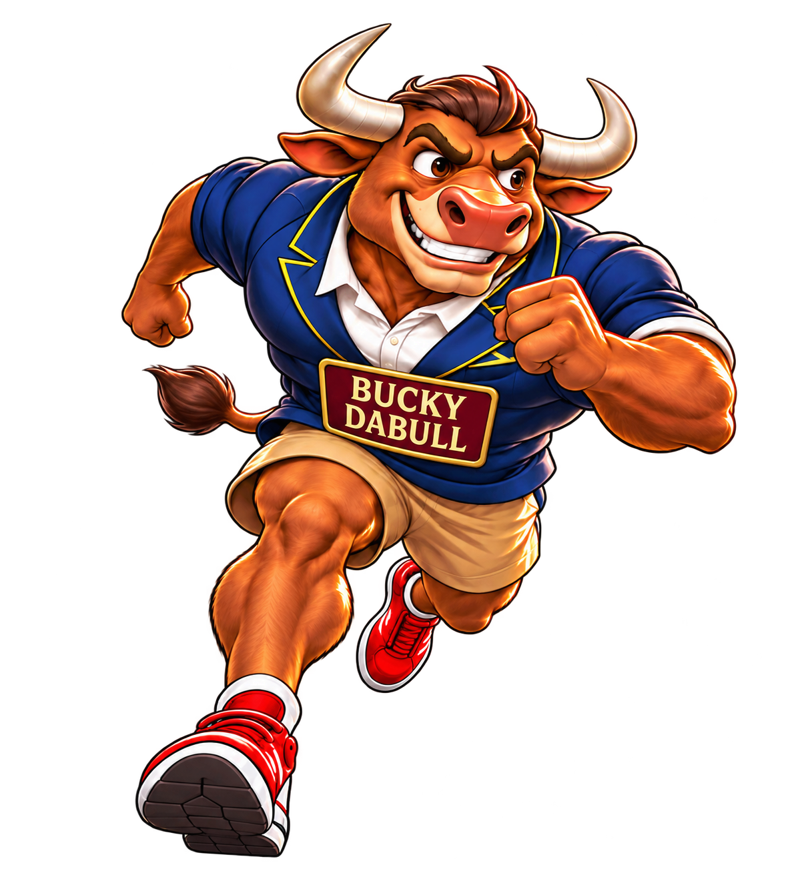
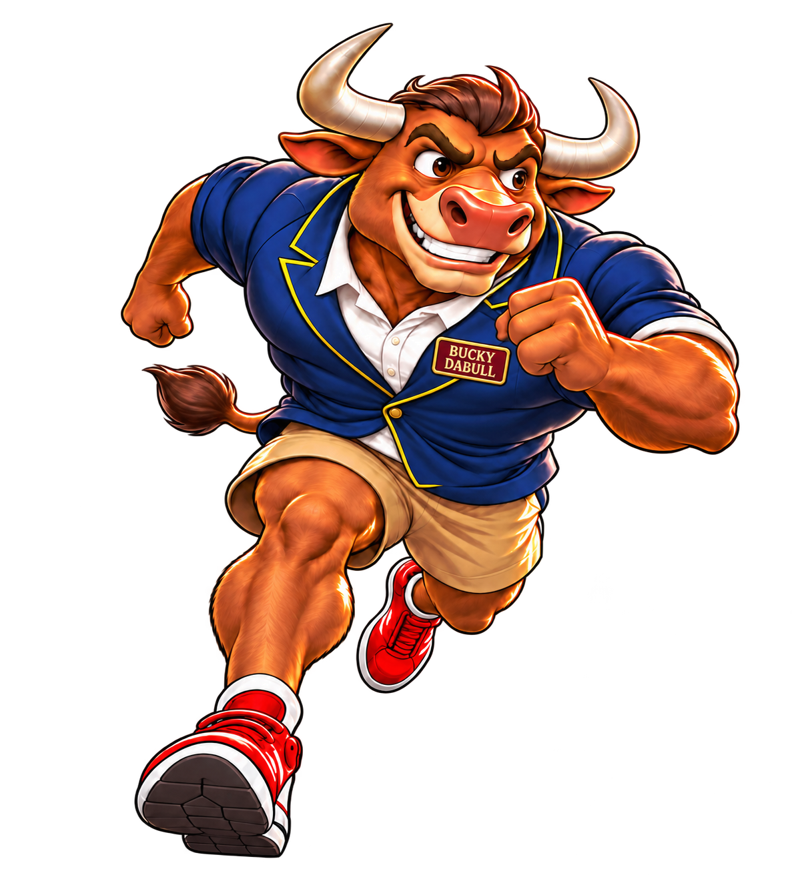
Cast: updated Bucky DaBull and BitMe DaBear name-tag images

diff --git a/cast/index.html b/cast/index.html
@@ -16,7 +16,7 @@
 </header>
 <main id="main">
     <article class="bloke" id="bucky-dabull">
-      <img src="../assets/cast/bucky-dabull.png" alt="A muscular bull in a navy blazer, khaki shorts and red sneakers, sprinting with a grin, wearing a BUCKY DABULL name tag." width="400" height="480">
+      <img src="../assets/cast/bucky-dabull.png?v=2" alt="A muscular bull in a navy blazer, khaki shorts and red sneakers, sprinting with a grin, wearing a BUCKY DABULL name tag." width="400" height="480">
       <div class="bloke-text">
         <h2>Bucky DaBull</h2>
         <p class="kicker">The Bull · The optimist</p>
@@ -26,7 +26,7 @@
       </div>
     </article>
     <article class="bloke" id="bitme-dabear">
-      <img src="../assets/cast/bitme-dabear.png" alt="A wide-eyed bear in a red Bitcoin T-shirt, blue shorts, gold chain and red sneakers, running in alarm, wearing a BITME DABEAR name tag." width="400" height="480">
+      <img src="../assets/cast/bitme-dabear.png?v=2" alt="A wide-eyed bear in a red Bitcoin T-shirt, blue shorts, gold chain and red sneakers, running in alarm, wearing a BITME DABEAR name tag." width="400" height="480">
       <div class="bloke-text">
         <h2>BitMe DaBear</h2>
         <p class="kicker">The Bear · The pessimist</p>
@@ -36,7 +36,7 @@
       </div>
     </article>
     <article class="bloke" id="hooter">
-      <img src="../assets/cast/hooter.png" alt="An owl in a bow tie and vest holding a balance scale with an up arrow and a down arrow, and a notebook and pencil, wearing a HOOTER name tag." width="400" height="480">
+      <img src="../assets/cast/hooter.png?v=2" alt="An owl in a bow tie and vest holding a balance scale with an up arrow and a down arrow, and a notebook and pencil, wearing a HOOTER name tag." width="400" height="480">
       <div class="bloke-text">
         <h2>Hooter</h2>
         <p class="kicker">The Owl · The pragmatist</p>
@@ -46,7 +46,7 @@
       </div>
     </article>
     <article class="bloke" id="badask">
-      <img src="../assets/cast/badask.png" alt="A honey badger in a work vest, cargo pants and boots, holding a checklist tablet and a wrench, wearing a BADASK name tag." width="400" height="480">
+      <img src="../assets/cast/badask.png?v=2" alt="A honey badger in a work vest, cargo pants and boots, holding a checklist tablet and a wrench, wearing a BADASK name tag." width="400" height="480">
       <div class="bloke-text">
         <h2>Badask</h2>
         <p class="kicker">The Honey Badger · The practicalist</p>
@@ -56,7 +56,7 @@
       </div>
     </article>
     <article class="bloke" id="boss-hog">
-      <img src="../assets/cast/boss-hog.png" alt="A hog in a maroon pinstripe suit and gold tie, carrying a bag stuffed with stock certificates and a fistful of casino chips and cash, wearing a BOSS HOG name tag." width="400" height="480">
+      <img src="../assets/cast/boss-hog.png?v=2" alt="A hog in a maroon pinstripe suit and gold tie, carrying a bag stuffed with stock certificates and a fistful of casino chips and cash, wearing a BOSS HOG name tag." width="400" height="480">
       <div class="bloke-text">
         <h2>Boss Hog</h2>
         <p class="kicker">The Hog · The speculator</p>
